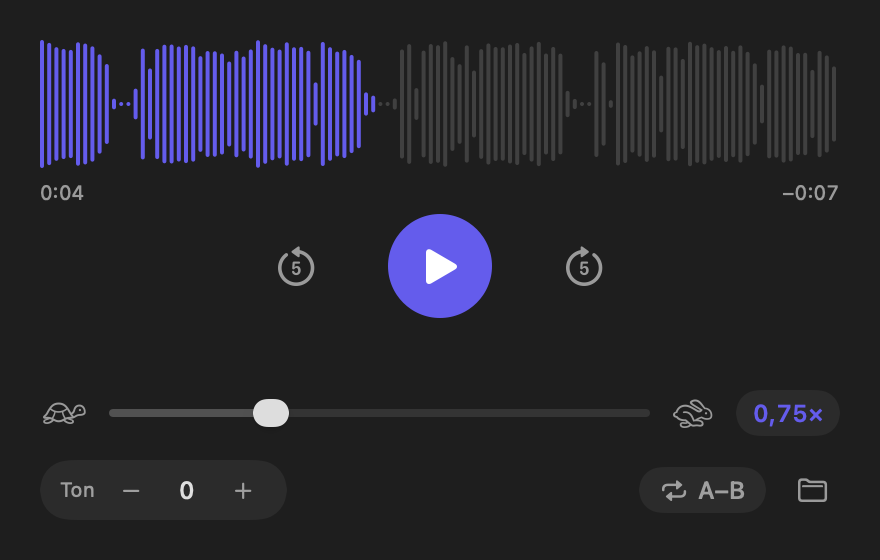
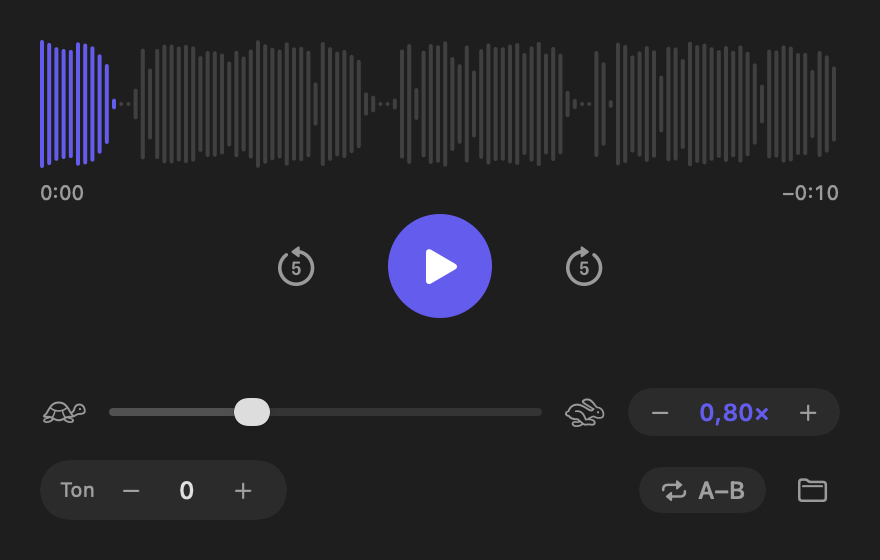
Hız 0,05 adımlarla: − / + düğmeleri ve 0,50–1,50 ayrıntılı liste

diff --git a/Sources/Tini/ContentView.swift b/Sources/Tini/ContentView.swift
@@ -119,23 +119,34 @@ struct ContentView: View {
             Slider(value: rate, in: Player.rateRange)
                 .controlSize(.small)
             Image(systemName: "hare").foregroundStyle(.secondary)
-            Menu {
-                ForEach(Player.ratePresets, id: \.self) { r in
-                    Button(rateString(r)) { player.rate = r }
+            HStack(spacing: 0) {
+                IconButton(symbol: "minus", size: 10) { player.nudgeRate(-Player.rateStep) }
+                    .help("0,05 yavaşlat (↓)")
+                Menu {
+                    ForEach(Player.ratePresets, id: \.self) { r in
+                        Toggle(rateString(r), isOn: Binding(
+                            get: { abs(player.rate - r) < 0.001 },
+                            set: { _ in player.rate = r }))
+                        if r == 1 || r == 1.5 { Divider() }
+                    }
+                } label: {
+                    Text(rateString(player.rate))
+                        .font(.callout.monospacedDigit().weight(.semibold))
+                        .foregroundStyle(player.rate == 1 ? AnyShapeStyle(.primary) : AnyShapeStyle(accent))
+                        .frame(width: 50)
+                        .padding(.vertical, 4)
+                        .contentShape(Rectangle())
                 }
-            } label: {
-                Text(rateString(player.rate))
-                    .font(.callout.monospacedDigit().weight(.semibold))
-                    .foregroundStyle(player.rate == 1 ? AnyShapeStyle(.primary) : AnyShapeStyle(accent))
-                    .frame(width: 52)
-                    .padding(.vertical, 4)
-                    .background(Capsule().fill(.quaternary.opacity(0.6)))
+                .menuStyle(.button)
+                .buttonStyle(.plain)
+                .menuIndicator(.hidden)
+                .fixedSize()
+                IconButton(symbol: "plus", size: 10) { player.nudgeRate(Player.rateStep) }
+                    .help("0,05 hızlandır (↑)")
             }
-            .menuStyle(.button)
-            .buttonStyle(.plain)
-            .menuIndicator(.hidden)
-            .fixedSize()
-            .help("Hız (↑ ↓, 0 = normal)")
+            .padding(.horizontal, 4)
+            .background(Capsule().fill(.quaternary.opacity(0.6)))
+            .help("Hız: değere tıkla → liste (0 = normal hız)")
         }
     }
 
@@ -277,8 +288,5 @@ func timeString(_ t: Double) -> String {
 }
 
 func rateString(_ r: Double) -> String {
-    var s = String(format: "%.2f", r)
-    while s.hasSuffix("0") { s.removeLast() }
-    if s.hasSuffix(".") { s.removeLast() }
-    return s.replacingOccurrences(of: ".", with: ",") + "×"
+    String(format: "%.2f", r).replacingOccurrences(of: ".", with: ",") + "×"
 }

diff --git a/Sources/Tini/Player.swift b/Sources/Tini/Player.swift
@@ -39,7 +39,9 @@ final class Player {
     }
 
     static let rateRange = 0.25...2.0
-    static let ratePresets: [Double] = [0.5, 0.75, 0.9, 1, 1.25, 1.5, 2]
+    /// 0,50 – 1,50 arası her 0,05, ardından 1,75 ve 2.
+    static let ratePresets: [Double] = (10...30).map { Double($0 * 5) / 100 } + [1.75, 2]
+    static let rateStep = 0.05
     static let skip: Double = 5
 
     var loopActive: Bool { loopA != nil && loopB != nil }

diff --git a/README.md b/README.md
@@ -4,7 +4,7 @@
 
 Mac için sade ses oynatıcı. Sesi yavaşlatır ya da hızlandırır; ses tonu bozulmaz.
 
-- **Hız** 0,25× – 2× (sürgü veya hazır değerler: 0,5 · 0,75 · 0,9 · 1 · 1,25 · 1,5 · 2)
+- **Hız** 0,25× – 2×, 0,05 adımlarla (sürgü, − / + düğmeleri ya da listeden 0,50 · 0,55 · … · 1,50 · 1,75 · 2,00)
 - **Ton** −12 / +12 yarım ses, hızdan bağımsız
 - **A–B döngüsü**: bir bölümü durmadan tekrar et (dil öğrenmek, şarkı çalışmak için)
 - Dalga biçimi üzerinde tıklayıp sürükleyerek atlama
